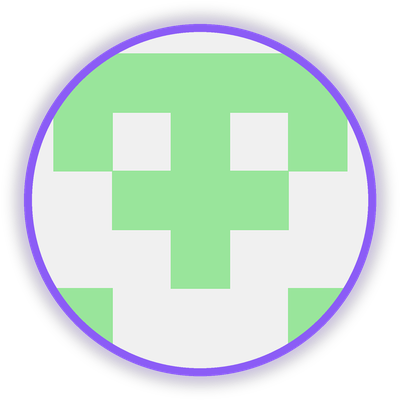
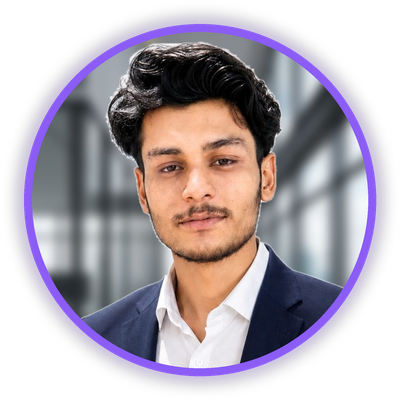
fix(team): update Harshvardhan and Sujeet with authentic professional portraits
- Replaced Harshvardhan Sisodiya's GitHub identicon with his real photo composited onto a modern blurred corporate office background with violet glowing ring
- Replaced Sujeet Kannaujiya's casual avatar with a professional corporate headshot in dark business suit with an amber glowing ring
- Synchronized TeamModal in React frontend to use high-resolution team portrait assets
- Maintained primary focus on Team Leader Shivansh Mishra as Principal Architect

diff --git a/frontend/src/components/TeamModal.jsx b/frontend/src/components/TeamModal.jsx
@@ -38,7 +38,7 @@ const TEAM_CARDS = [
     badgeText: '🎨 Frontend Architect & UI/UX Lead',
     name: 'Harshvardhan Sisodiya',
     initials: 'HS',
-    avatar: 'https://github.com/harsh123-code.png',
+    avatar: '/team/harshvardhan.png',
     role: 'Frontend Architect • UI/UX Lead',
     themeColor: 'text-primary',
     borderClass: 'border-primary/70',
@@ -96,7 +96,7 @@ const TEAM_CARDS = [
     badgeText: '📑 Research Lead & Technical Writer',
     name: 'Sujeet Kannaujiya',
     initials: 'SK',
-    avatar: 'https://github.com/sujeet-official.png',
+    avatar: '/team/sujeet.png',
     role: 'Research Lead • Technical Documentation',
     themeColor: 'text-match-amber',
     borderClass: 'border-match-amber/70',
